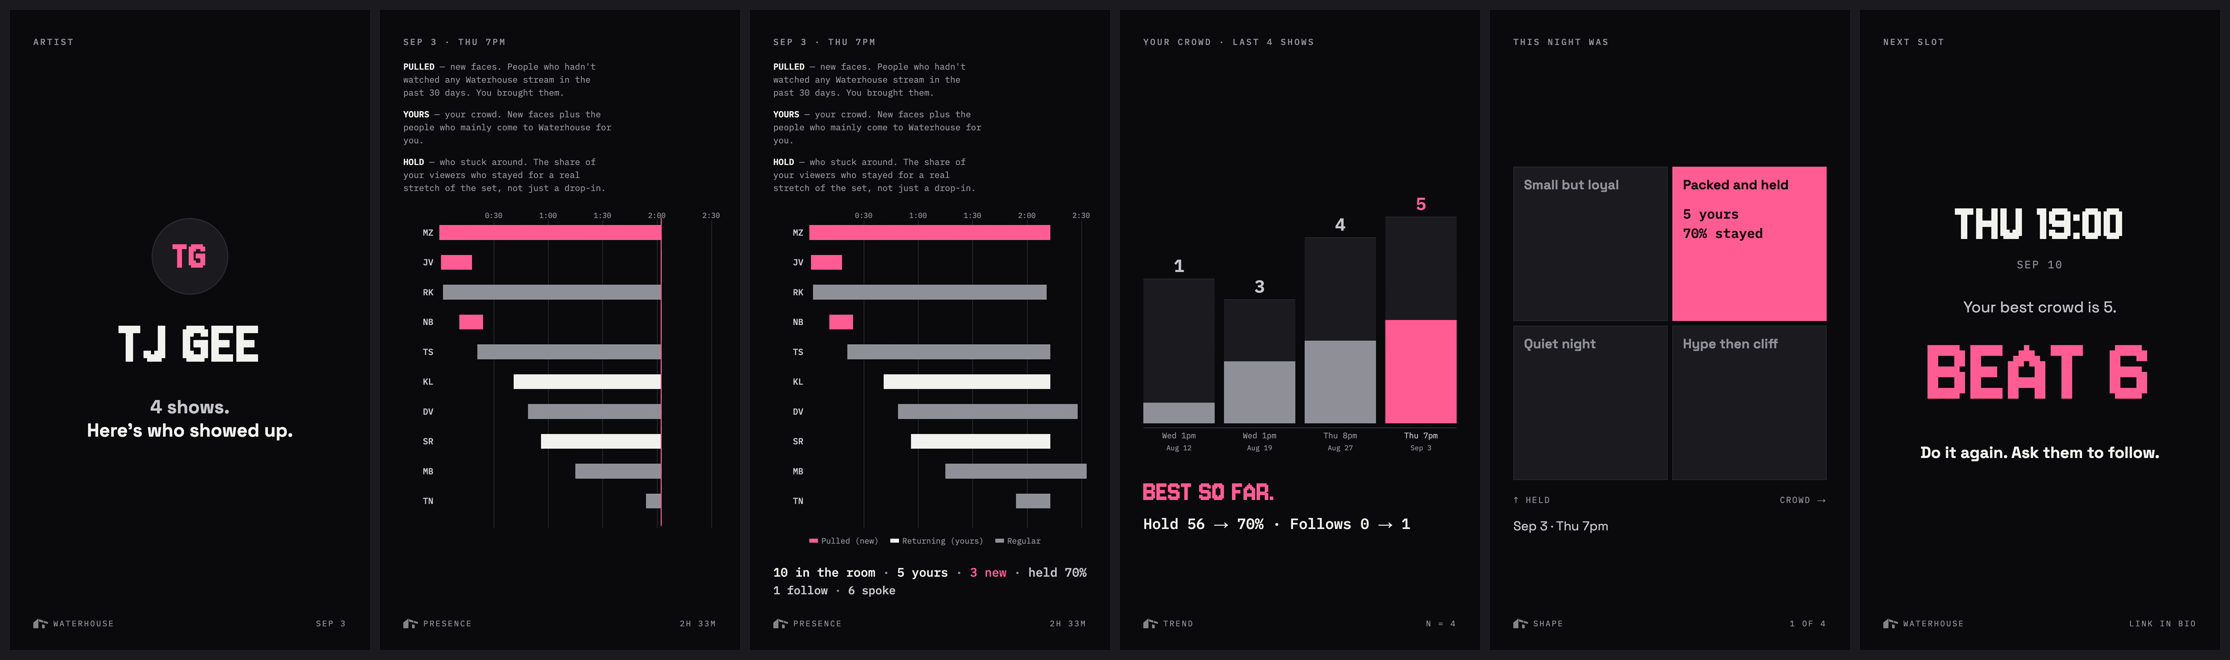
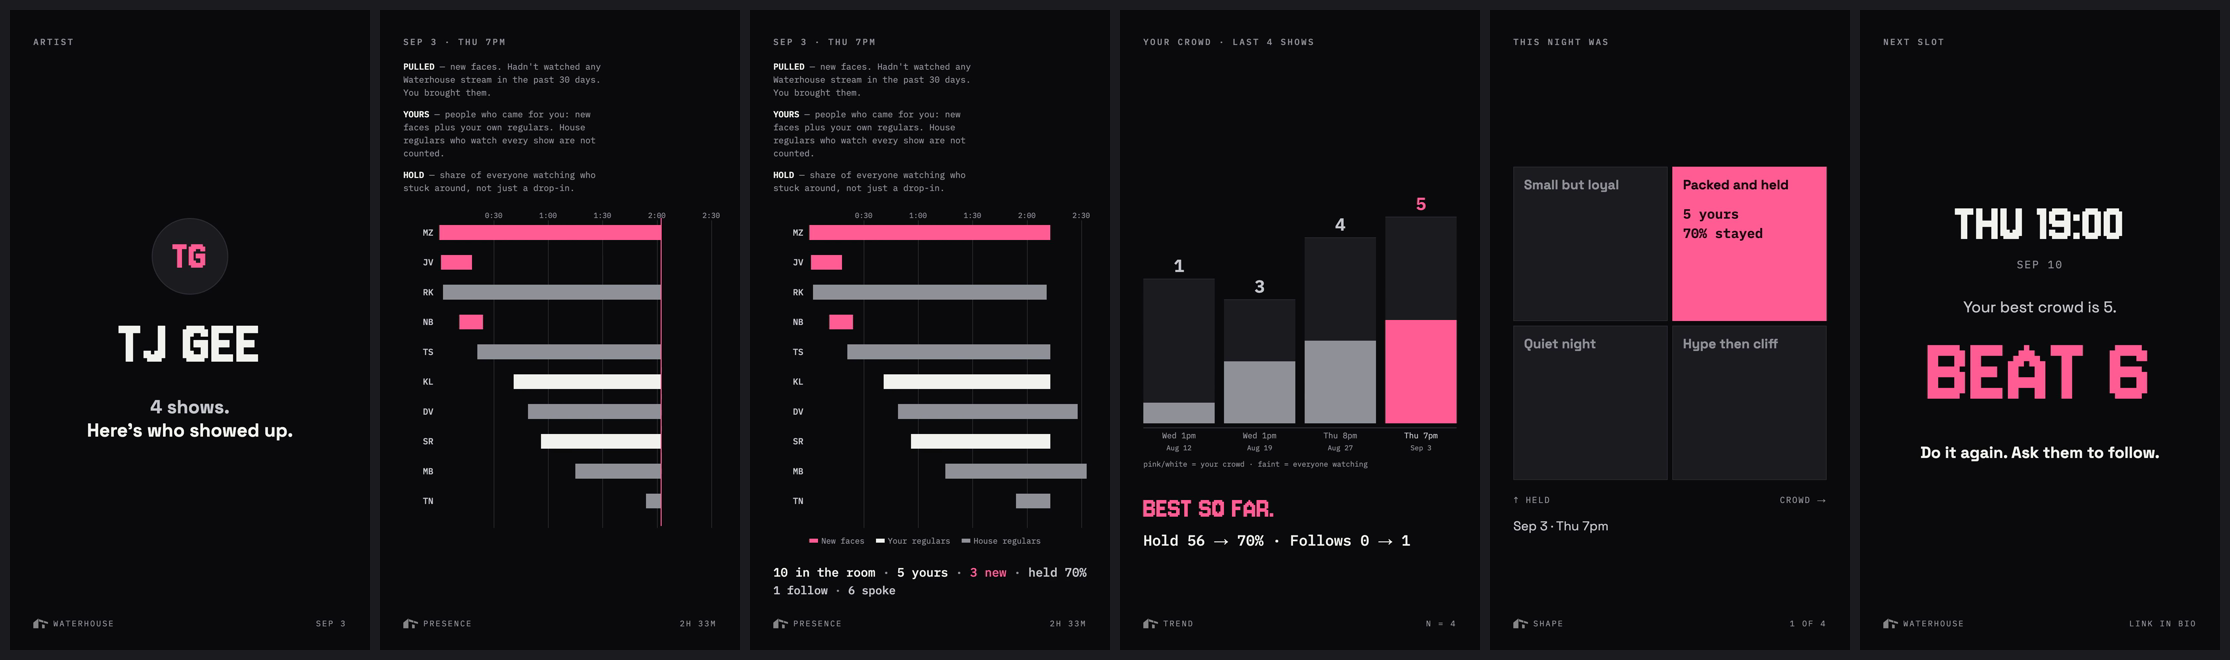
remotion-6: match HouseWeekly's wording for pulled, yours and hold
Same terms in both videos, so an artist who watches the weekly board and
their own recap is reading one vocabulary rather than two. The YOURS entry
now says plainly what it excludes - house regulars who watch everything are
not your crowd - which is the part that gets misread.

Swatch legend under the bars names the fills as people rather than as
metrics: New faces / Your regulars / House regulars.

The trend beat gained a caption naming its two-tone bar, so the faint bar
behind reads as context rather than as a number being judged.

Line breaks land at nine lines across the three glossary entries, exactly as
before, so the plot did not have to move again.

Claude-Session: https://claude.ai/code/session_012BD4WrKMAWbbW9H9MHaS3r

diff --git a/src/ArtistRecap.tsx b/src/ArtistRecap.tsx
@@ -437,15 +437,15 @@ const GLOSSARY_WIDTH = 630;
 const GLOSSARY: { term: string; text: string }[] = [
   {
     term: "PULLED",
-    text: " \u2014 new faces. People who hadn't watched any Waterhouse stream in the past 30 days. You brought them.",
+    text: " \u2014 new faces. Hadn't watched any Waterhouse stream in the past 30 days. You brought them.",
   },
   {
     term: "YOURS",
-    text: " \u2014 your crowd. New faces plus the people who mainly come to Waterhouse for you.",
+    text: " \u2014 people who came for you: new faces plus your own regulars. House regulars who watch every show are not counted.",
   },
   {
     term: "HOLD",
-    text: " \u2014 who stuck around. The share of your viewers who stayed for a real stretch of the set, not just a drop-in.",
+    text: " \u2014 share of everyone watching who stuck around, not just a drop-in.",
   },
 ];
 
@@ -722,9 +722,9 @@ const WhoShowedUp: React.FC<{ session: SessionAudience }> = ({ session }) => {
           >
             {(
               [
-                ["Pulled (new)", ACCENT],
-                ["Returning (yours)", INK],
-                ["Regular", GREY],
+                ["New faces", ACCENT],
+                ["Your regulars", INK],
+                ["House regulars", GREY],
               ] as const
             ).map(([label, color]) => (
               <span
@@ -888,11 +888,28 @@ const Trend: React.FC<{
         }}
       />
 
+      {/* Names the two-tone bar, so the faint one is never mistaken for a
+          number the artist is being judged on. */}
       <div
         style={{
           position: "absolute",
           left: PAD,
-          top: 1400,
+          top: 1345,
+          width: CONTENT_W,
+          fontFamily: monoFont,
+          fontSize: 22,
+          color: GREY,
+          opacity: fadeIn(frame, BAR_IN + 6, 14),
+        }}
+      >
+        pink/white = your crowd · faint = everyone watching
+      </div>
+
+      <div
+        style={{
+          position: "absolute",
+          left: PAD,
+          top: 1450,
           width: CONTENT_W,
         }}
       >
